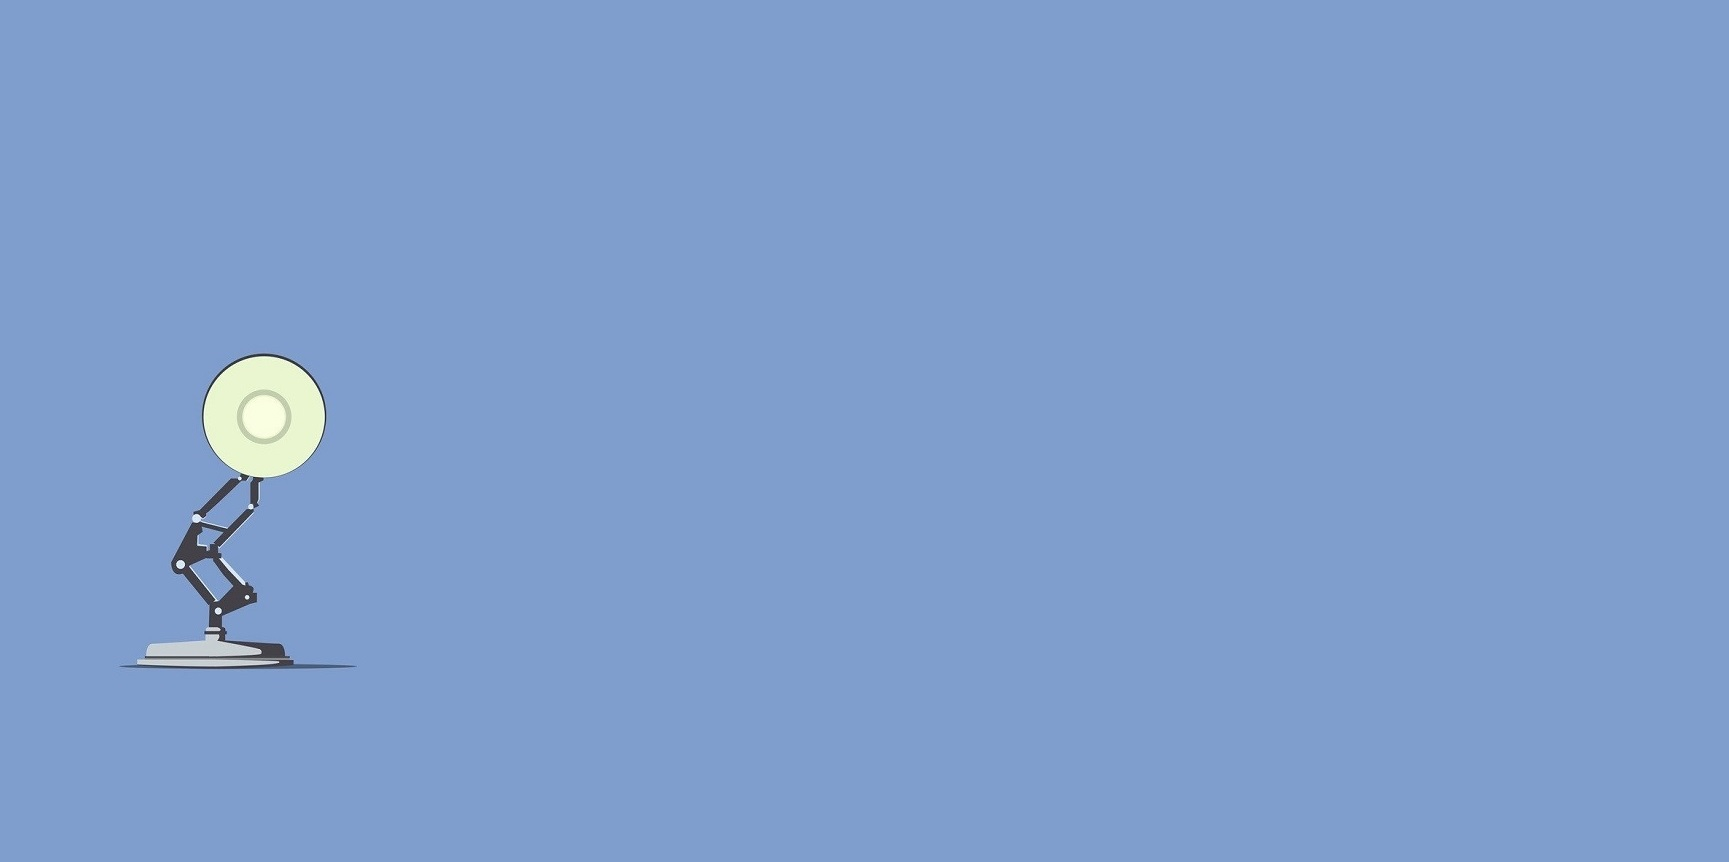
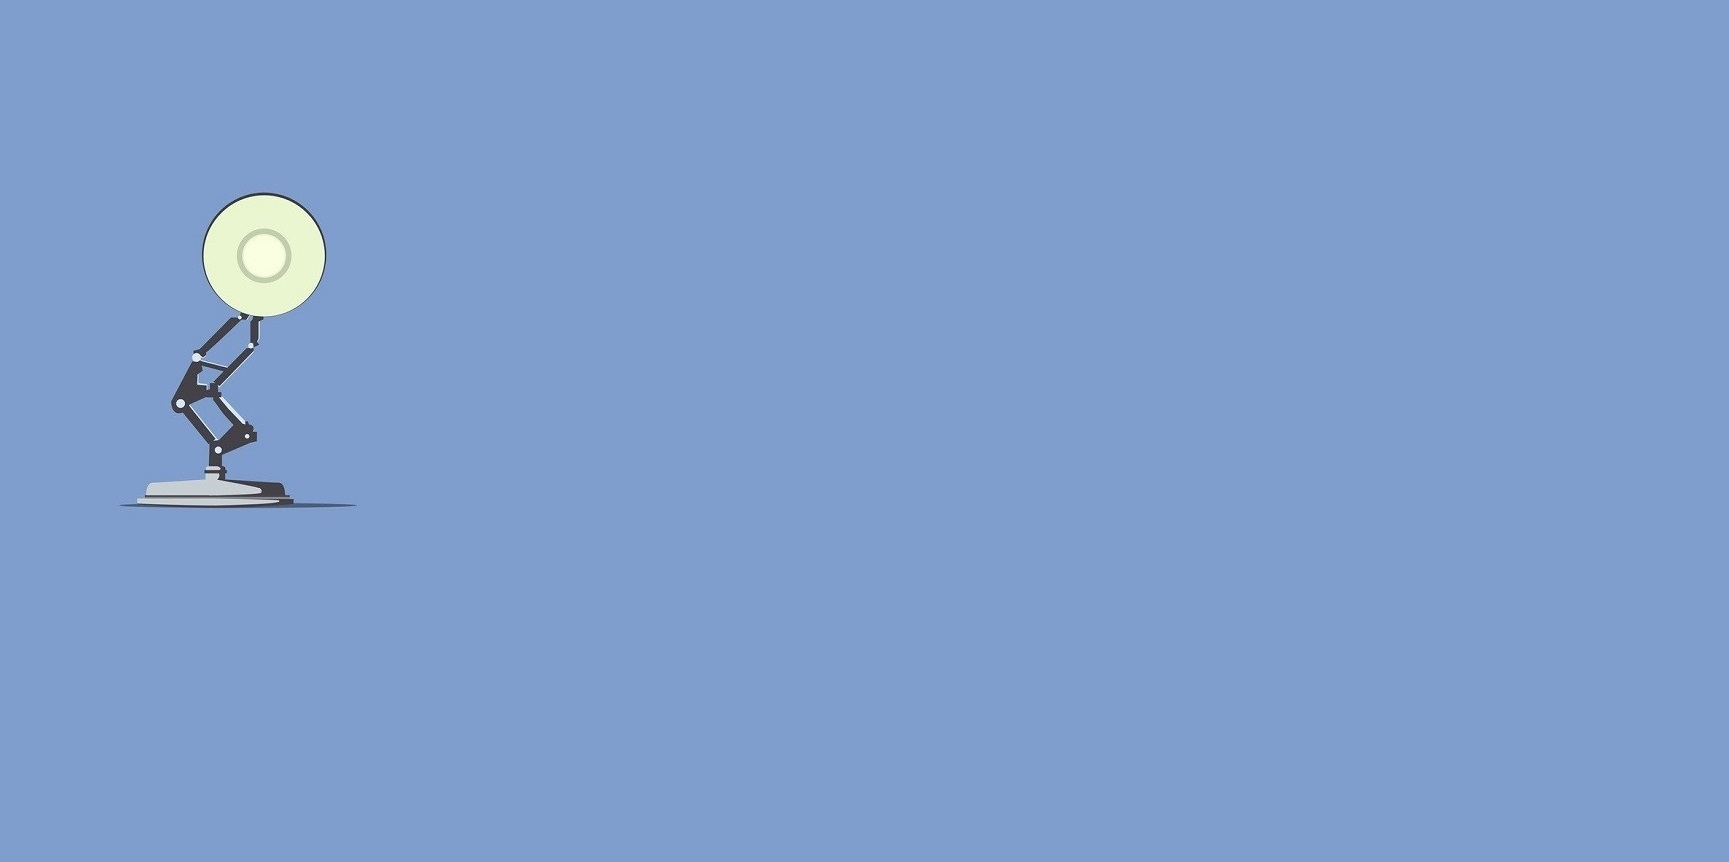
Additional updates to css, updated background image

Changed region(s): [[0.0625, 0.2111, 0.1874, 0.7842]]

diff --git a/assets/css/style.css b/assets/css/style.css
@@ -1,6 +1,6 @@
 /*Style for body*/
 body {
-    width: 960px; 
+    width: auto; 
     margin: auto;
     padding: 0; 
     background-image: url("../images/disney.jpg");
@@ -10,13 +10,13 @@ body {
 
   /* Style for game div */
   #game {
-    width: 550px; 
-    height: 460px; 
+    width: 450px; 
+    height: 400px; 
     margin: auto; 
     background-color: #ffffff;
     text-align: left;
-    border: solid #cccccc 5px; 
-    margin-top: 90px; 
+    border: solid #cccccc 4px; 
+    margin-top: 50px; 
     padding: 10px 10px 10px 10px; 
 }
 
@@ -32,5 +32,5 @@ h1 {
 }
 
 p{
-  font-size: 25px; 
+  font-size: 20px; 
 }
